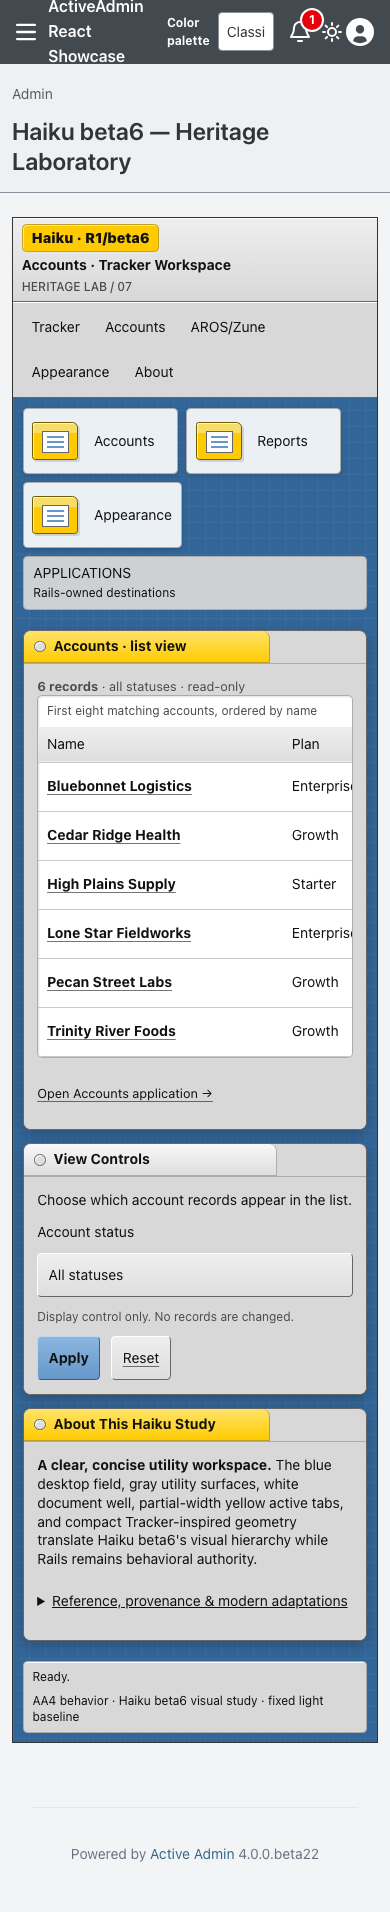
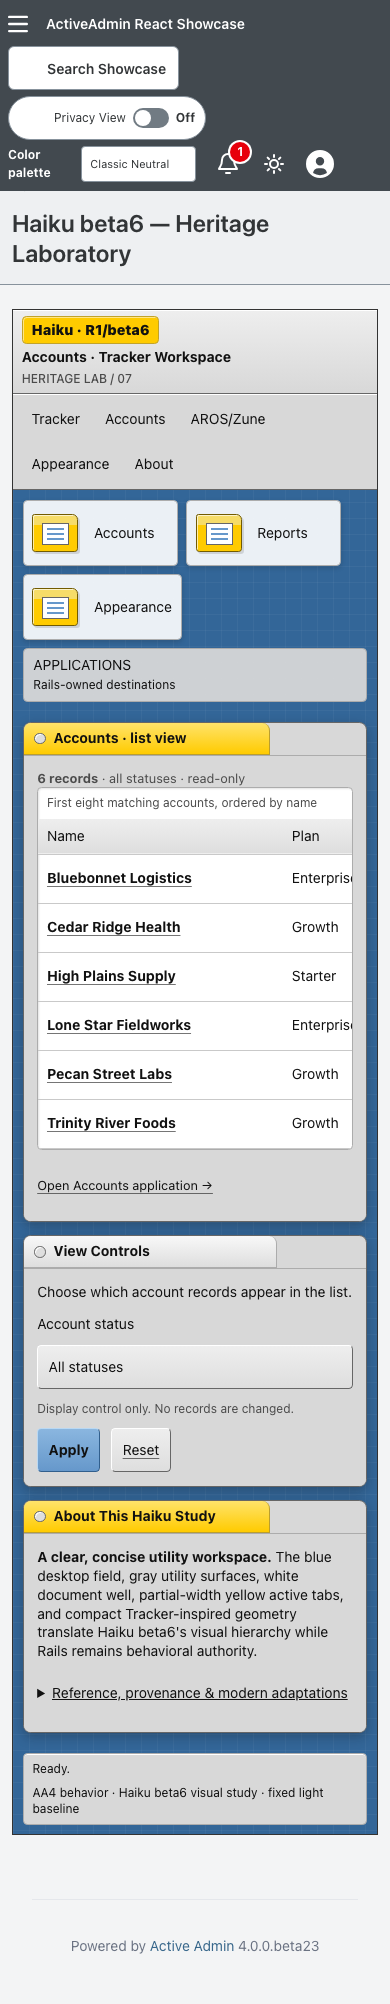
docs: refresh Haiku beta6 parent evidence

diff --git a/docs/heritage-haiku-beta6.md b/docs/heritage-haiku-beta6.md
@@ -7,8 +7,8 @@ Visit `/admin/haiku_beta6_laboratory` after signing in, or choose **Overview →
 Haiku beta6 Laboratory**. It is a separate page rather than a skin on the AROS/Zune
 or AmigaOS 4 laboratory.
 
-Presentation comes from stacked `activeadmin-themes` PR #38 at exact head
-`0486844e7c9928222216bb0c55ecaaed610a574b`. Showcase commits the installed
+Presentation comes from `activeadmin-themes` 0.2.0 at exact merged commit
+`96db6599a0668cfa2338769b35b38262ba9f49d1`. Showcase commits the installed
 stylesheet, maps the gem's immutable 24 semantic roles onto host-owned Rails
 markup, and keeps routes, records, authorization, filtering, accessibility, and
 native behavior local. It contains no Showcase presentation patch.
@@ -67,11 +67,12 @@ claimed. A 390px viewport is responsive evidence, not genuine browser zoom.
 
 ## Screenshot Provenance
 
-Captured from implementation source
-`ebc95d94aacc68f94f030037ecce1aadbc930ae9` on September 22, 2026, using
+Captured from reconciled implementation source
+`468a72657a20d8ae591aeac9b9b41cc2a90dd16d` after exact approved parent
+`1f7e240f523901476017b868e55689d2e0cd736e` on September 28, 2026, using
 Playwright 1.63.0 / Chromium 153.0.8010.12 on macOS 26.7. The host pins
-`activeadmin-themes` exact head
-`0486844e7c9928222216bb0c55ecaaed610a574b`; installed Haiku beta6 CSS SHA-256
+`activeadmin-themes` 0.2.0 at exact merged commit
+`96db6599a0668cfa2338769b35b38262ba9f49d1`; installed Haiku beta6 CSS SHA-256
[1 lines of base64/hex data omitted]
 Seeded synthetic accounts, default zoom, and a fresh page/context were used for
 each 1440×1000 desktop and 390×1000 narrow capture. Both images were visually
@@ -88,8 +89,8 @@ CAPTURE_SHOWCASE_SCREENSHOTS=1 CI=1 PLAYWRIGHT_PORT=3191 mise exec -- npx playwr
 SHA256:
 
 ```text
-haiku-beta6-1440.png  99bb596b7340decb75dea7b2f2a5f2856aaa569cef14ebf5028f56a697f015ff
-haiku-beta6-390.png   d41033cc379aad1b674902fd2c0878d661e053ca573bd3a7a84aaf6b8966fb19
+haiku-beta6-1440.png  1bd0fc8472c48b50d188b0f8a098922f1cc47770cf3e04f14390435112bb4756
+haiku-beta6-390.png   b31d0024d4ebec2e53d285297fb605dda1a9f302dad67eb5469630d18dcfab62
 ```
 
 ## Collection Remains Open
